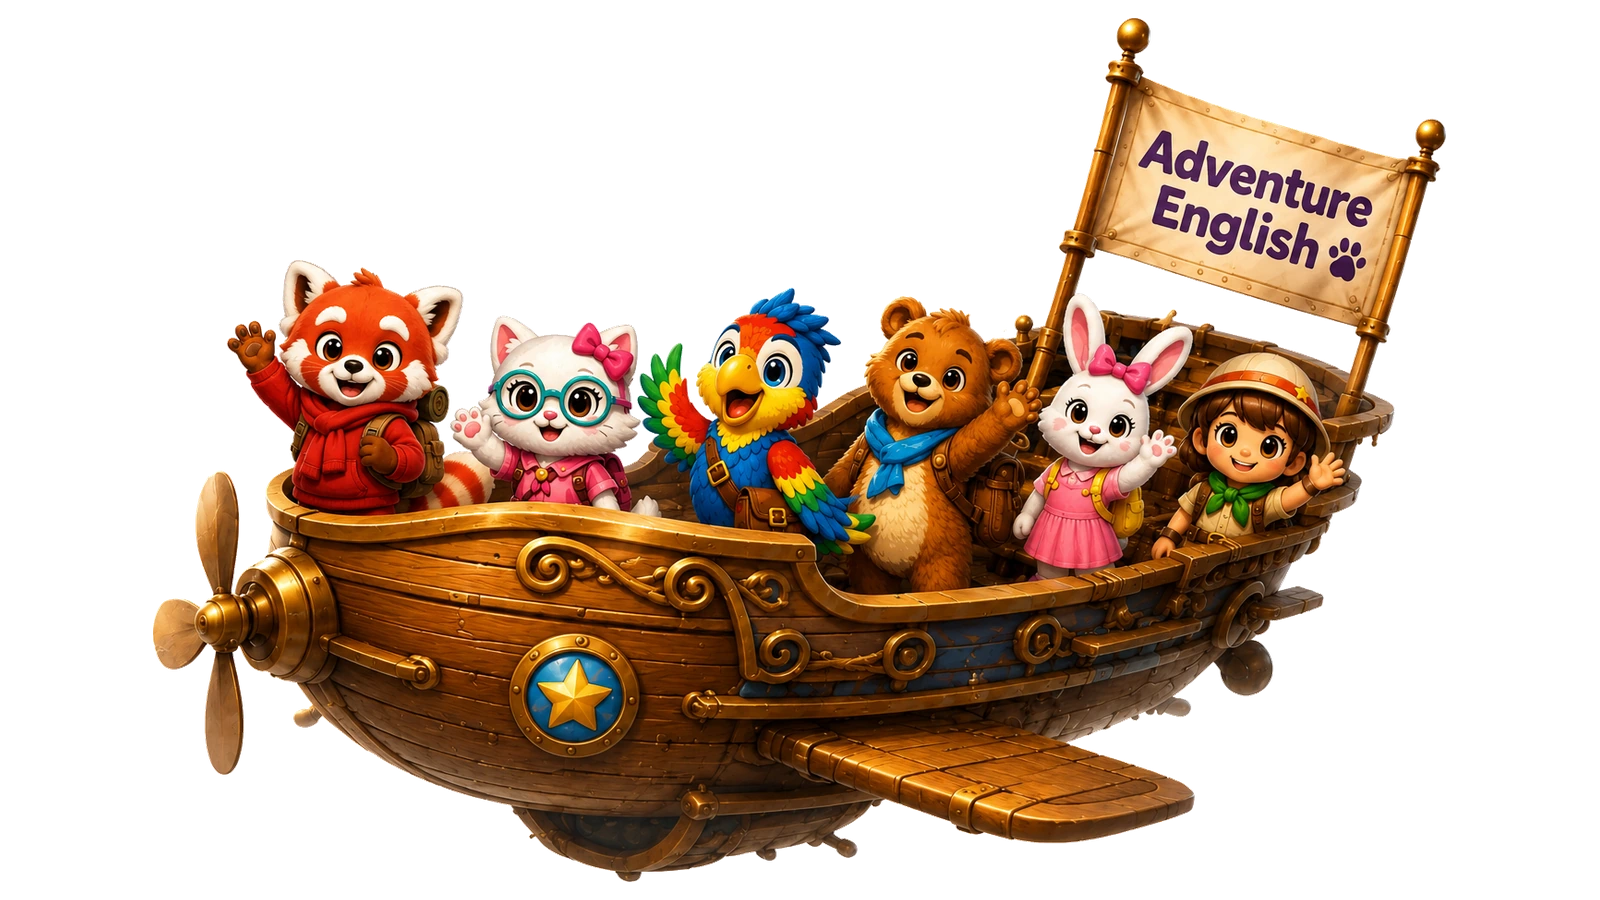
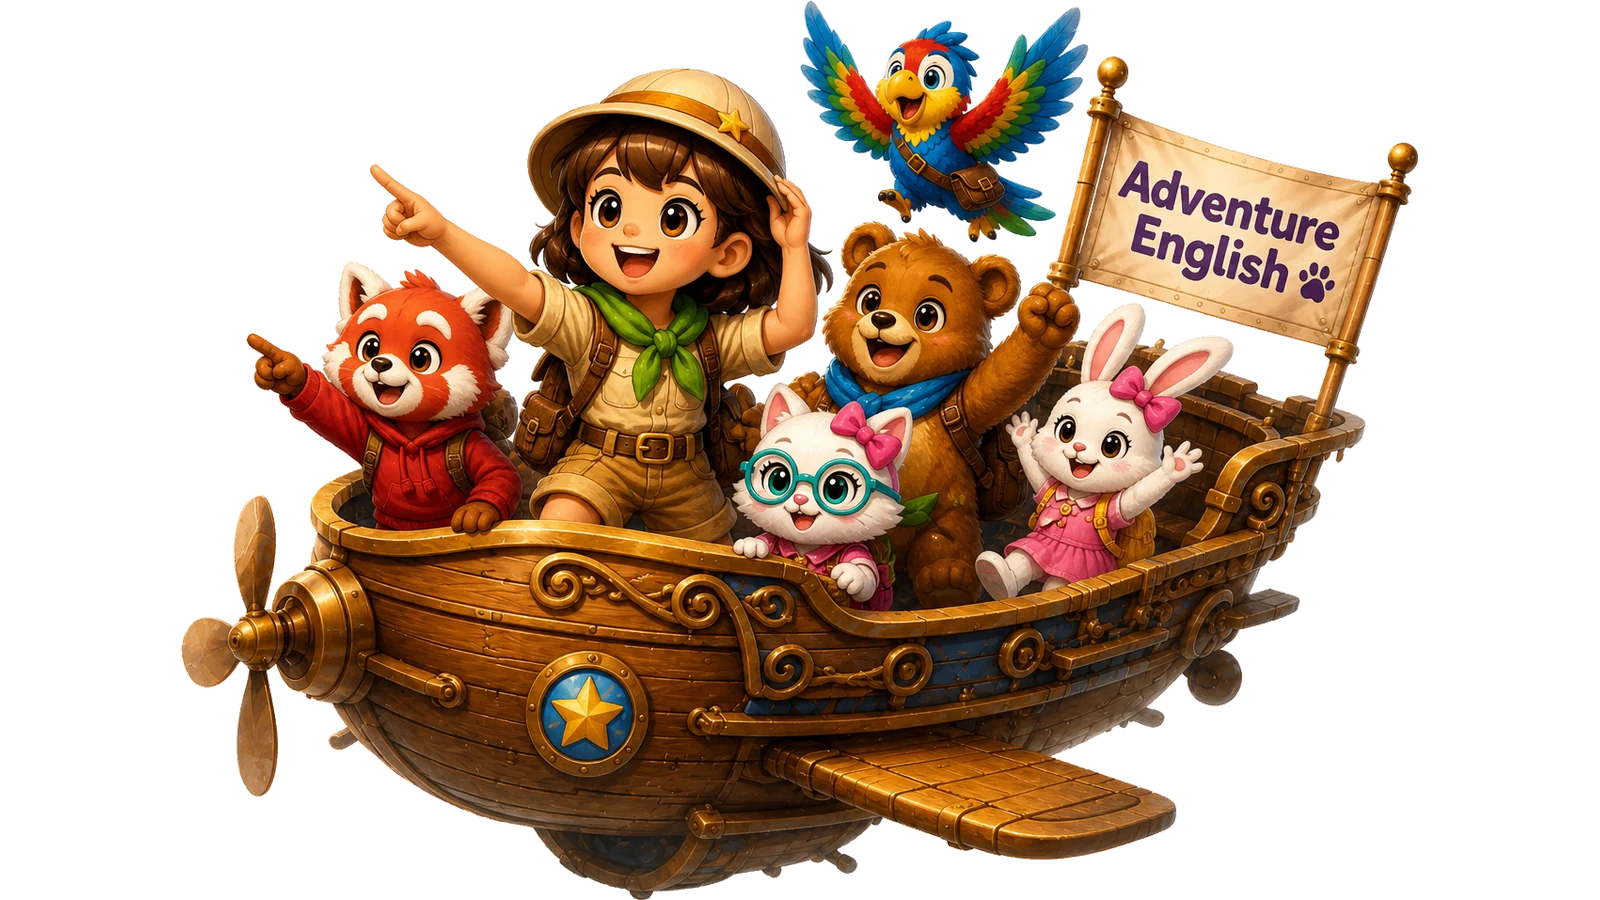
首頁飛船換成 SHIP-C2
角色臉大、排列有前後層次，人物大小關係也對了（小女孩在前最大）。
去背用 flood-fill 不用 rembg——旗桿、螺旋槳這種細長散開的東西
rembg 會當雜訊刪掉。切圖腳本收進 scripts/cut_ship.py。

diff --git a/src/app/home/page.tsx b/src/app/home/page.tsx
@@ -395,7 +395,7 @@ export default function LayeredBanner() {
             transition={{ duration: 1, delay: 0.3 }}
           >
             <motion.img
-              src="/images/maps/hero-ship-crew.webp?v=3"
+              src="/images/maps/hero-ship-crew.webp?v=4"
               alt="Adventure English crew"
               className="object-contain"
               style={{

diff --git a/scripts/cut_ship.py b/scripts/cut_ship.py
@@ -1,0 +1,34 @@
+"""把飛船圖去背成首頁用的 hero。
+
+用 flood-fill 而不是 rembg：rembg 會把散開的小東西（旗子、螺旋槳葉片）當雜訊刪掉，
+只有「從邊界連進來的白」才算背景，船身裡的白（兔子、貓）才留得住。
+"""
+import numpy as np, pathlib
+from PIL import Image
+from scipy import ndimage
+
+SRC = pathlib.Path("/Users/linyangting/Desktop/characters-clean/ship-c2.png")
+DST = pathlib.Path("/Users/linyangting/english-chparenting/public/images/maps/hero-ship-crew.webp")
+
+im = Image.open(SRC).convert("RGBA")
+a = np.array(im).astype(np.int16)
+
+whiteish = a[..., :3].min(axis=2) > 235
+seed = np.zeros_like(whiteish)
+seed[0, :] = seed[-1, :] = seed[:, 0] = seed[:, -1] = True
+seed &= whiteish
+bg = ndimage.binary_propagation(seed, mask=whiteish)
+
+lum = a[..., :3].min(axis=2)
+alpha = np.where(bg, 0, np.clip((248 - lum) / 13 * 255, 0, 255))
+alpha = np.where(~bg & (lum <= 235), 255, alpha)
+a[..., 3] = alpha
+cut = Image.fromarray(a.astype(np.uint8)).crop(Image.fromarray(a.astype(np.uint8)).getbbox())
+
+# 貼進 1600×900 的透明畫布置中，跟舊檔同規格，前端 CSS 不用動
+W, H = 1600, 900
+cut.thumbnail((W, H), Image.LANCZOS)
+out = Image.new("RGBA", (W, H), (0, 0, 0, 0))
+out.alpha_composite(cut, ((W - cut.width) // 2, (H - cut.height) // 2))
+out.save(DST, "WEBP", quality=88, method=6)
+print(f"✓ {DST}  {out.size}  {DST.stat().st_size // 1024} KB  （去背後主體 {cut.size}）")
